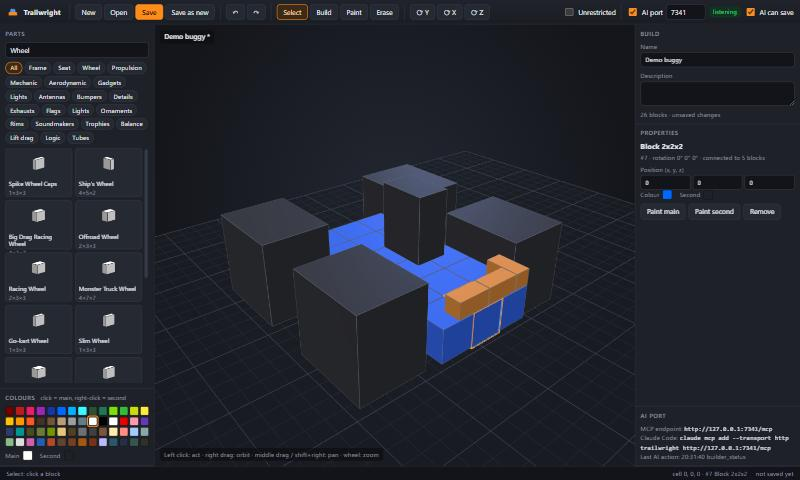
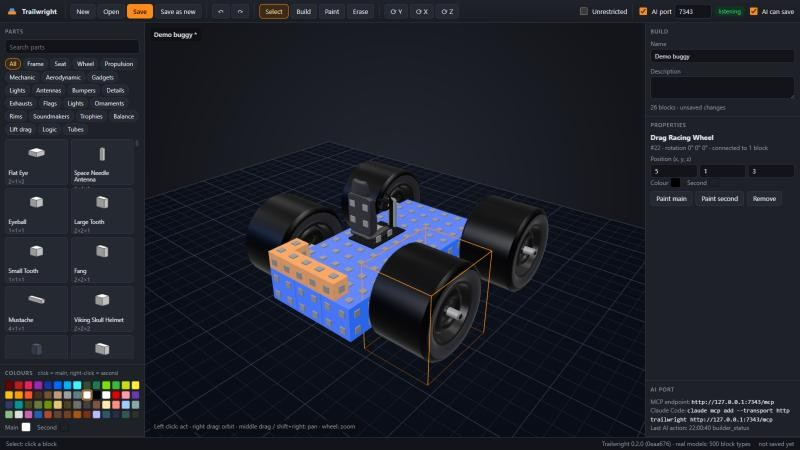
Trailwright 0.2.0
- Version 0.2.0 (app, MCP server info, README status).
- 3D view: pin the main grid row to the window height. The canvas used to keep its old
  height when the window got smaller and pushed the view below the bottom edge.
- README screenshot now shows the real block models.
- Release scan: allow the %LOCALAPPDATA% placeholder in the app's own text.

diff --git a/src/Trailwright.App/wwwroot/app.css b/src/Trailwright.App/wwwroot/app.css
@@ -41,7 +41,7 @@ input:focus, select:focus, textarea:focus { outline: none; border-color: var(--a
 .pill.err { background: #3a1716; color: var(--danger); }
 
 main { position: absolute; top: 46px; bottom: 26px; left: 0; right: 0; display: grid;
-  grid-template-columns: 290px 1fr 310px; }
+  grid-template-columns: 290px 1fr 310px; grid-template-rows: minmax(0, 1fr); }
 aside { display: flex; flex-direction: column; min-height: 0; background: var(--panel); }
 aside.left { border-right: 1px solid var(--line); }
 aside.right { border-left: 1px solid var(--line); }
@@ -67,7 +67,7 @@ aside.right { border-left: 1px solid var(--line); }
 .chosen { display: flex; align-items: center; gap: 6px; color: var(--muted); font-size: 12px; }
 .chosen i { width: 18px; height: 18px; border-radius: 3px; border: 1px solid #0007; display: inline-block; margin-right: 8px; }
 
-.viewport { position: relative; min-width: 0; background: radial-gradient(ellipse at 50% 40%, #232731, #14161b 70%); }
+.viewport { position: relative; min-width: 0; min-height: 0; overflow: hidden; background: radial-gradient(ellipse at 50% 40%, #232731, #14161b 70%); }
 #view { width: 100%; height: 100%; display: block; }
 .overlay { position: absolute; padding: 4px 8px; background: #0c0d10b0; border-radius: var(--radius); color: var(--muted); font-size: 12px; pointer-events: none; }
 .overlay.tl { top: 10px; left: 10px; color: var(--text); font-weight: 600; font-size: 13px; }

diff --git a/tools/scan_release.py b/tools/scan_release.py
@@ -59,7 +59,10 @@ BUILD_NEEDLES = [".pdb", B + "obj" + B, "/obj/", ":" + B + "Users" + B, "AppData
 # of common words (inside .NET's System.IO.Compression.Native) contains common first names.
 ALLOWED = [b"city of(this);andrew unique checked",
            # the app's own hint text naming an MCP client
-           b"claude code: ', el('code', {}, `claude mcp add --transport http trailwright"]
+           b"claude code: ', el('code', {}, `claude mcp add --transport http trailwright",
+           # the environment variable placeholder in the app's own comments and messages (a real
+           # user folder would still be caught by the personal needles)
+           b"%localappdata%\\trailwright\\"]
 
 
 def find(low, data, needle):

diff --git a/src/Trailwright.App/McpHost.cs b/src/Trailwright.App/McpHost.cs
@@ -63,7 +63,7 @@ public sealed class McpHost(AppState state)
             builder.Services.AddSingleton(state);
             builder.Services.AddMcpServer(o =>
                 {
-                    o.ServerInfo = new Implementation { Name = "trailwright", Version = "0.1.0" };
+                    o.ServerInfo = new Implementation { Name = "trailwright", Version = "0.2.0" };
                     o.ServerInstructions = Instructions;
                 })
                 .WithHttpTransport(o => o.Stateless = true)

diff --git a/README.md b/README.md
@@ -6,7 +6,7 @@ Trailwright is a separate Windows app, not a game mod. It reads and writes the s
 
 ![Trailwright](docs/screenshot.jpg)
 
-> **Status (v0.1.0, pre-release):** the file format is fully worked out and verified: 228 real blueprints, autosaves and transformation slots round-trip byte for byte, and files written by Trailwright decode with independent tools. Blocks placed by Trailwright get exactly the connections the game itself would make (375 of 375 re-placed blocks matched). **What has not happened yet is loading a Trailwright-edited blueprint in the game itself.** Keep the automatic backups until you have tried it.
+> **Status (v0.2.0):** the file format is fully worked out and verified: 228 real blueprints, autosaves and transformation slots round-trip byte for byte, and files written by Trailwright decode with independent tools. Blocks placed by Trailwright get exactly the connections the game itself would make (375 of 375 re-placed blocks matched), and the game has loaded a Trailwright-edited blueprint (its own autosave held the added block with Trailwright's connections). Removing blocks from builds with logic links has had the least in-game testing; saving over a file always keeps a backup.
 
 **Real block models.** Trailwright draws blocks with the game's own models and paint, and saves a blueprint picture rendered from them (so the game's blueprint menu shows your build, not boxes). The models are read from **your own Trailmakers install** once and kept on your PC (`%LOCALAPPDATA%\Trailwright\models`); none are included in this repository or the download. Run this once, and again after a game update (needs Python 3 with `UnityPy` and `numpy`):
 
